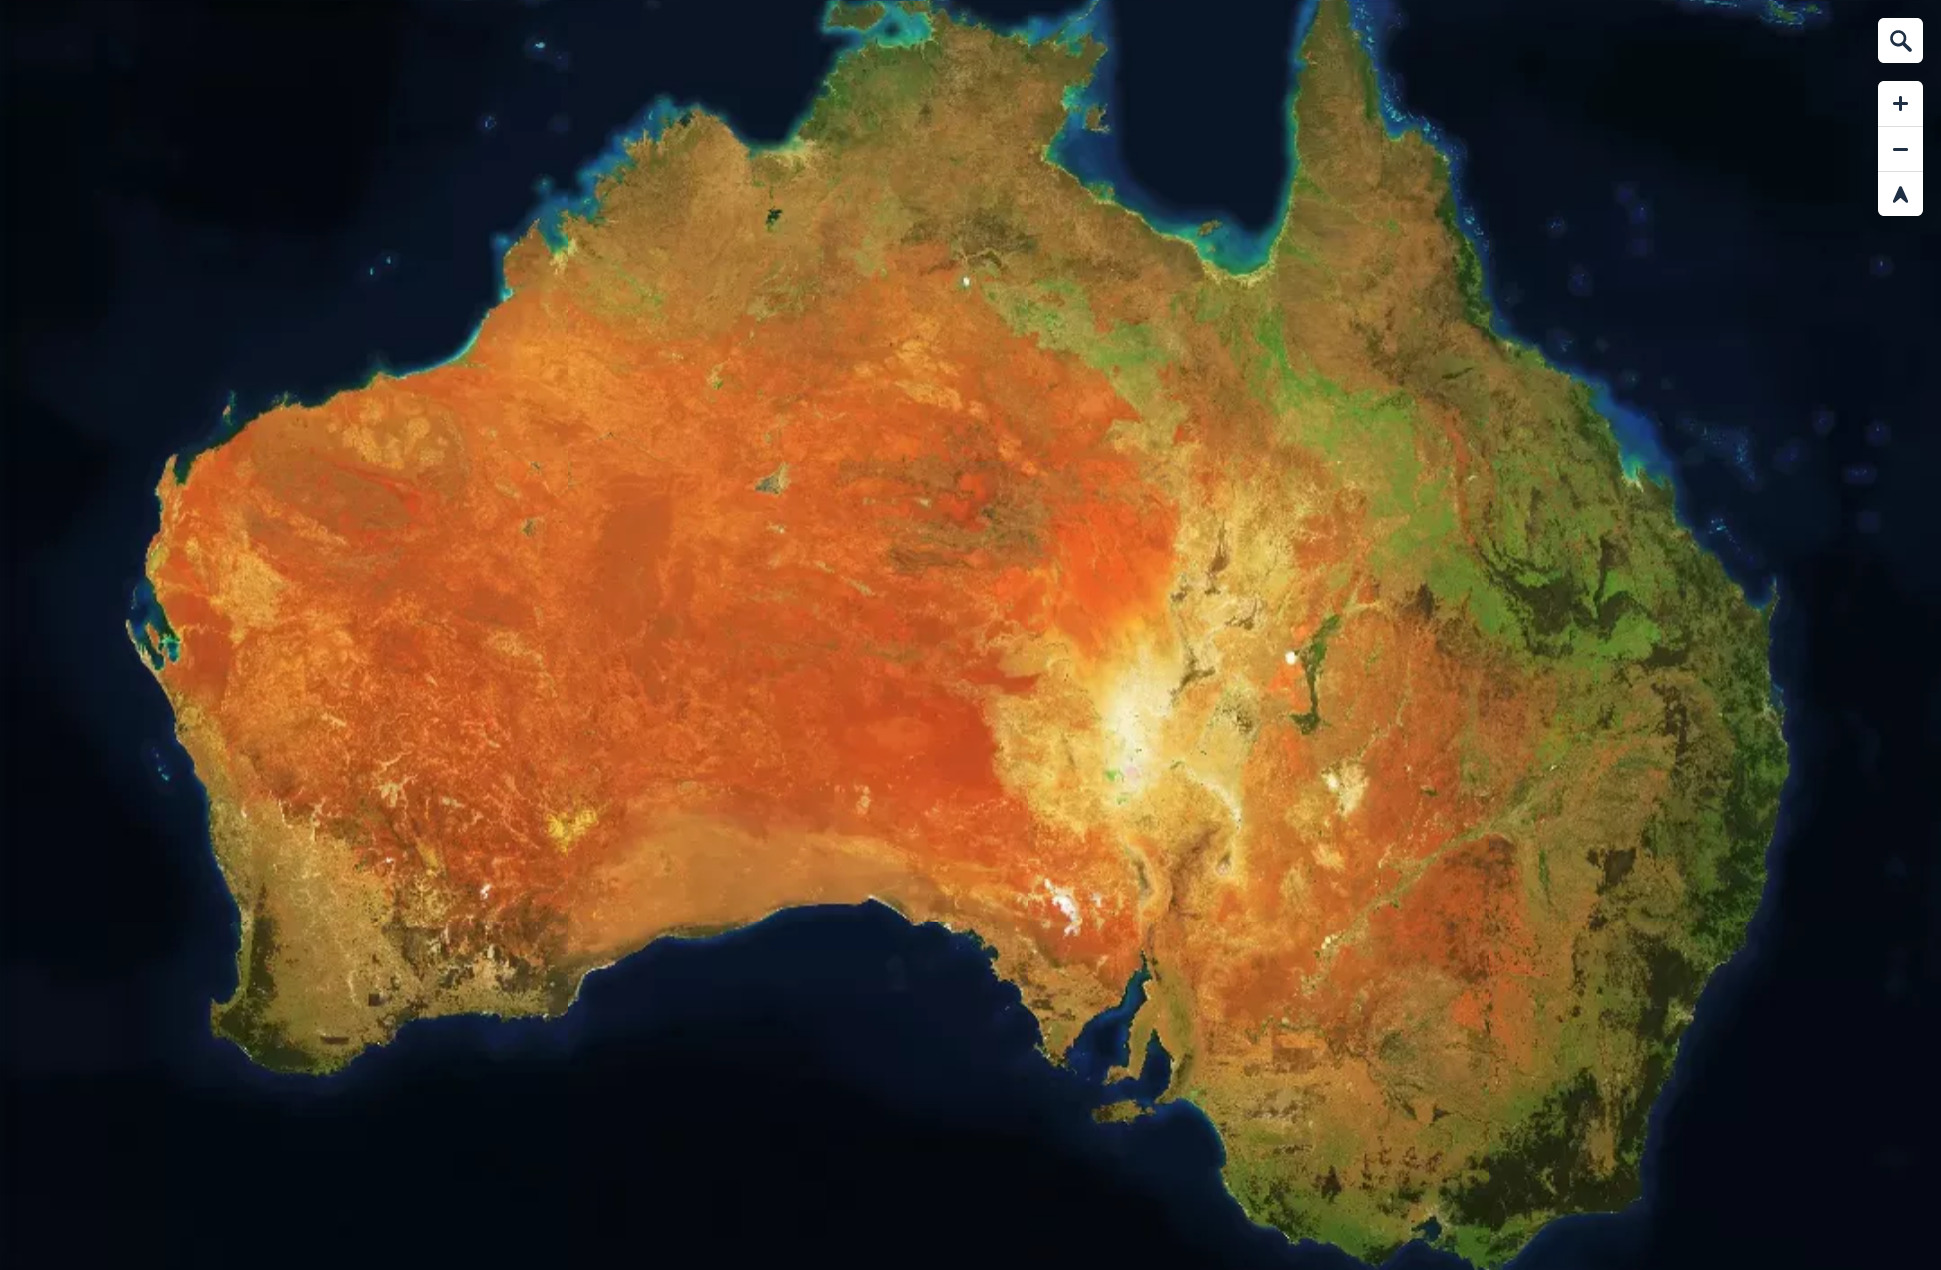
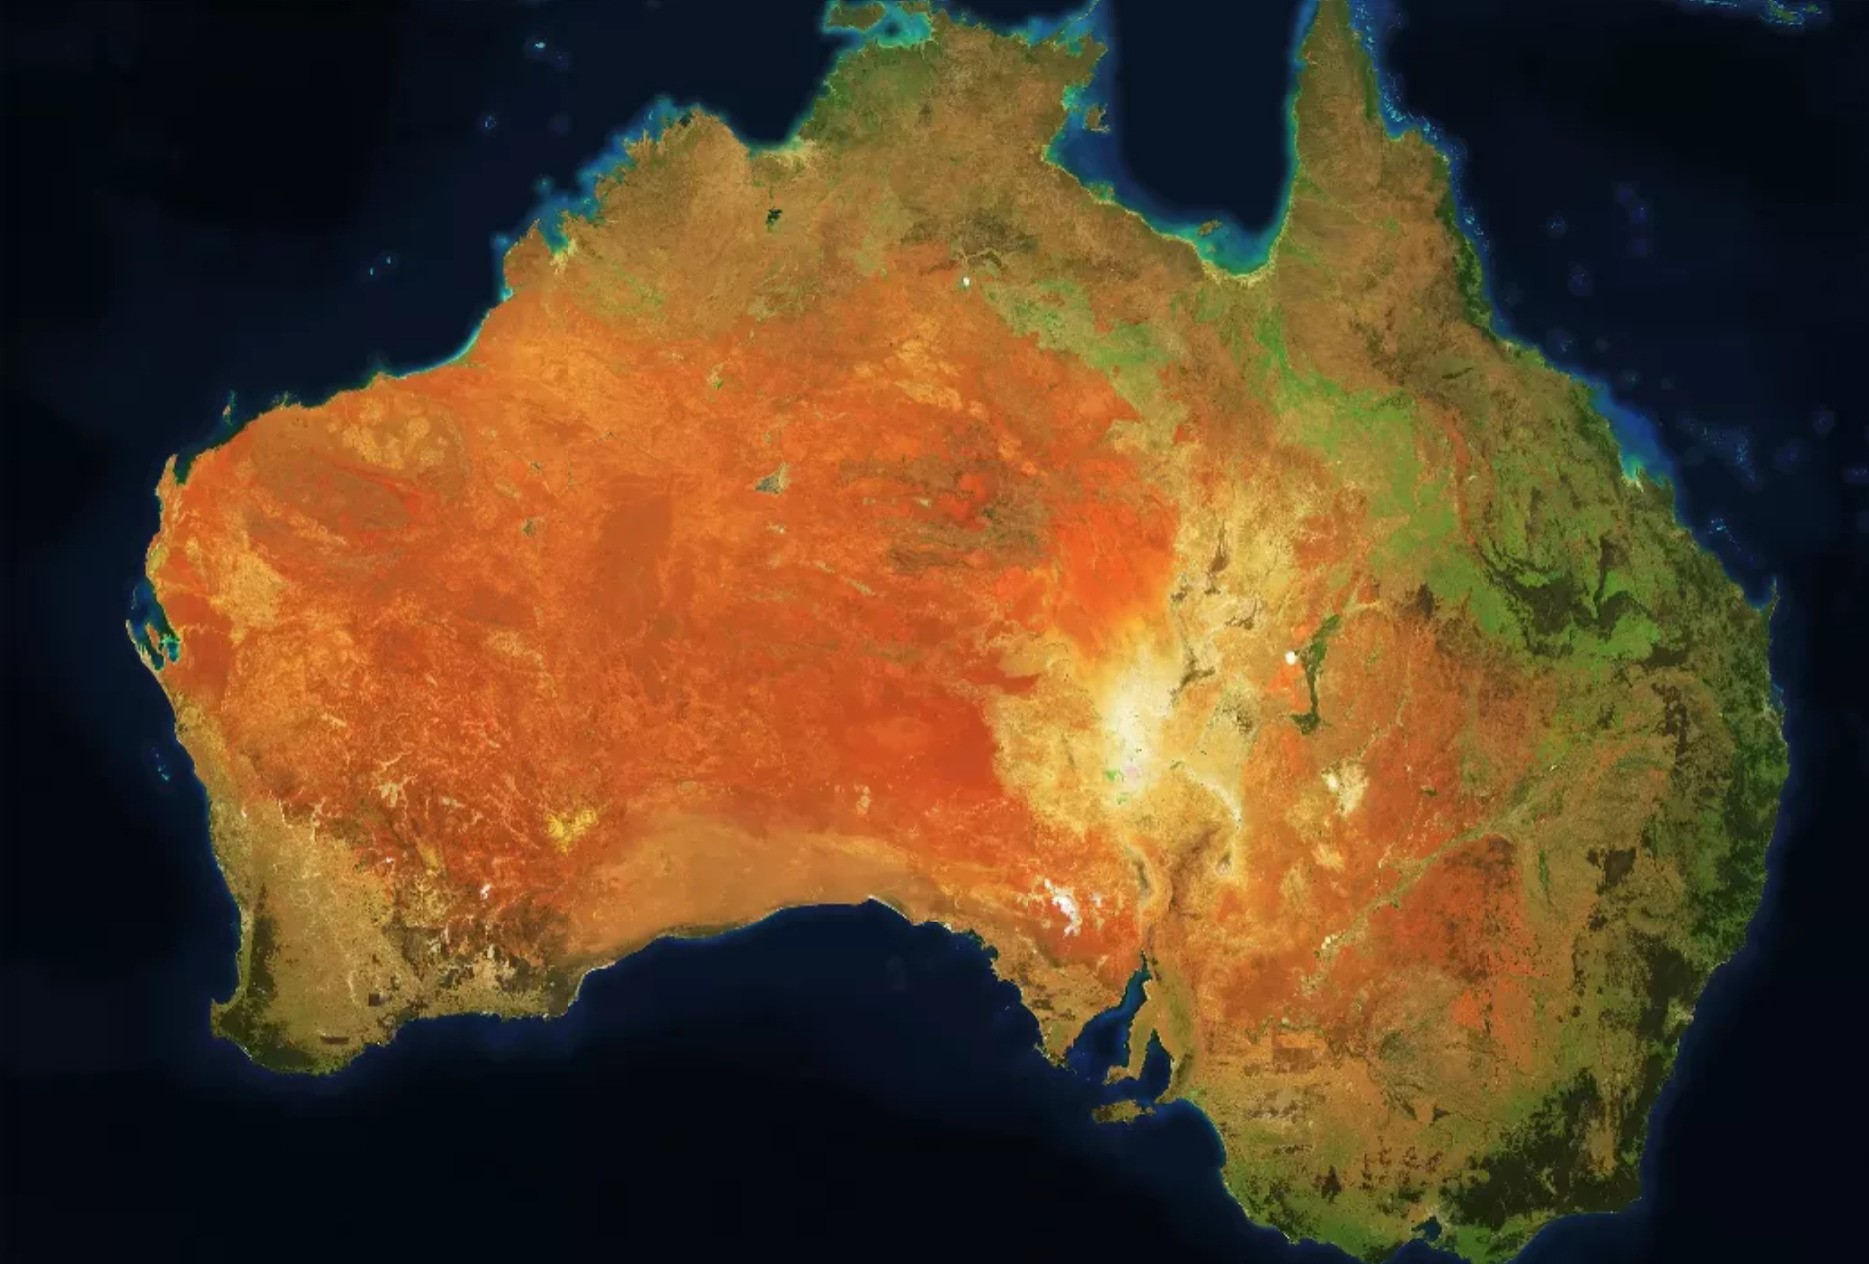
Added Australia

diff --git a/src/Components/NavBar.js b/src/Components/NavBar.js
@@ -39,43 +39,56 @@ function NavBar() {
                 {/* Nav item for the Home
                 Will take you Home if you click it
                 */}
-                <li className = 'nav-item'>
-                <Link to='/' className= 'nav-links' >
+
+
+                {/* <li className = 'nav-item'>
+                <Link to='/Home' className= 'nav-links' >
                 Home
                  </Link>
-                </li>
+                </li> */}
 
                 {/* Nav item for the Learn More buttom
                 Will take you to organizations and charities you can donate to
                 */}
                 <li className = 'nav-item'>
                     {/* Sets the link to learnmore which does not exist currently */}
-                <Link to='/learnmore' className= 'nav-links'  >
-                Learn More
+                <Link to='/charities' className= 'nav-links'  >
+                Charities 
                  </Link>
                 </li>
 
                 {/* Nav item for the left arrow
                 Will take you the next region
                 */}
-                <li className = 'nav-item'>
+                
+                {/* <li className = 'nav-item'> */}
                     {/* onClick={closeMobileMenu} */}
-                <Link to='/previous' className= 'nav-links' >
+                {/* <Link to='/previous' className= 'nav-links' >
                 <i class="fas fa-arrow-left"></i>
 
                  </Link>
-                </li>
+                </li> */}
 
                 {/* Nav item for the right arrow
                 Will take you the next region
                 */}
-                <li className = 'nav-item'>
-                <Link to='/next' className= 'nav-links'>
+                {/* <li className = 'nav-item'>
+                <Link to='/next' className= 'nav-links'> */}
                     {/* This is just the icon for eight arrow taken from Font awesome */}
-                <i class="fas fa-arrow-right"></i>
+                {/* <i class="fas fa-arrow-right"></i>
 
                  </Link>
+                </li> */}
+
+                <li className = 'nav-item'>
+                    {/* Sets the link to learnmore which does not exist currently */}
+                <Link to='/animal-list' className= 'nav-links'  >
+                Animals 
+                 </Link>
                 </li>
+
+
+
              </ul>
 
             {/* {button && <Button buttonStyle= 'btn--outline'> NEXT</Button>} */}

diff --git a/src/Components/Australia.js b/src/Components/Australia.js
@@ -3,39 +3,36 @@ import React from 'react'
 import '../App.css';
 import './AsiaSection.css';
 import {Link} from 'react-router-dom';
-import './Australia.js';
 
 
-function AsiaSection() {
+function Australia() {
     return (
         <div class = "asia-container">
-            <h1> Asia</h1>
+            <h1> Austrlia</h1>
 
             <div className = "asia-btns">
                 {/* Grabbing button stuff from Button class without it it wll not function  */}
             {/* <Button className = 'btns' buttonStyle = 'btn--primary'  buttonSize = 'btn--large'>   <i class="fas fa-arrow-left"></i></Button>
              <Button className = 'btns' buttonStyle = 'btn--primary'  buttonSize = 'btn--large'>   <i class="fas fa-arrow-right"></i></Button>
                 */}
-            
 
-                <Link to='/africa' className= 'to-region' >   
+                <Link to='/Asia' className= 'to-region' >   
                 <i class="fas fa-arrow-left"></i>
 
                  </Link>
 
-                 <Link to='/Australia' className= 'to-region'>
+                 <Link to='/australia' className= 'to-region'>
                 <i class="fas fa-arrow-right"></i>
                  </Link>
 
            </div>
             {/*  Image for the Asia continent    */}
-            <img id = 'AsiaImg' src = "Images/Asia.png" />
+            <img id = 'AsiaImg' src = "Images/Australia.jpg" />
             
             
 
         </div>
-        
     )
 }
 
-export default AsiaSection
+export default Australia

diff --git a/src/App.js b/src/App.js
@@ -4,6 +4,8 @@ import './App.css';
 import NavBar from './Components/NavBar';
 import {BrowserRouter as Router, Switch, Route} from 'react-router-dom';
 import Home from './Components/Pages/Home';
+import Australia from './Components/Australia';
+import AsiaSection from './Components/AsiaSection';
 
 
 function App() {
@@ -13,6 +15,11 @@ function App() {
     <NavBar />
     <Switch>
       <Route path= '/' exact component = {Home}/>
+      <Route path= '/Australia' exact component = {Australia}/>
+      <Route path= '/Asia' exact component = {AsiaSection}/>
+
+
+
       </Switch>
     </Router>
     

diff --git a/src/Components/AsiaSection.css b/src/Components/AsiaSection.css
@@ -5,8 +5,8 @@
     flex-direction: column;
     align-items: center;
     object-fit: contain;
-    background-color: rgba(15, 15, 15, 0.945);
-    color: rgba(255, 255, 255, 0.746);
+    background-color: rgba(22, 22, 22, 0.945);
+    color: rgba(255, 255, 255, 0.952);
     font-size: 1.7em;
     
 }

diff --git a/src/Components/Pages/Home.js b/src/Components/Pages/Home.js
@@ -1,6 +1,7 @@
 import React from 'react';
 import '../../App.css';
 import AsiaSection from '../AsiaSection';
+import Austrlia from '../Australia';
 
 function Home()
  {
@@ -8,6 +9,7 @@ function Home()
     return (
         <>
         <AsiaSection />
+       
         </>
     )
 

diff --git a/src/Components/NavBar.css b/src/Components/NavBar.css
@@ -1,6 +1,8 @@
 
   .navbar {
     background: linear-gradient(90deg, rgb(16, 100, 54) 0%, rgb(18, 114, 82) 100%); 
+    /* background: linear-gradient(90deg, rgb(128, 26, 31) 0%, rgb(158, 63, 63) 100%);  */
+
     height: 80px;
     display: flex;
     justify-content: center;
